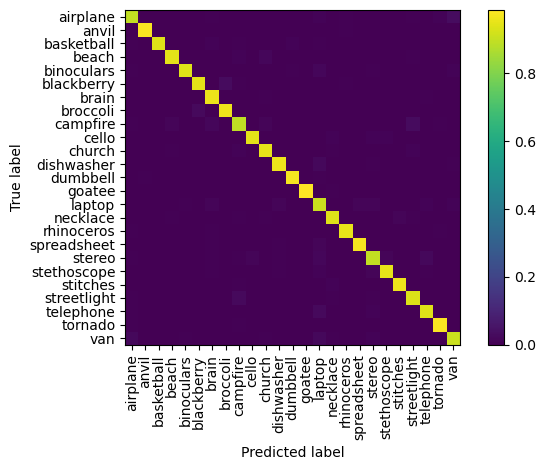
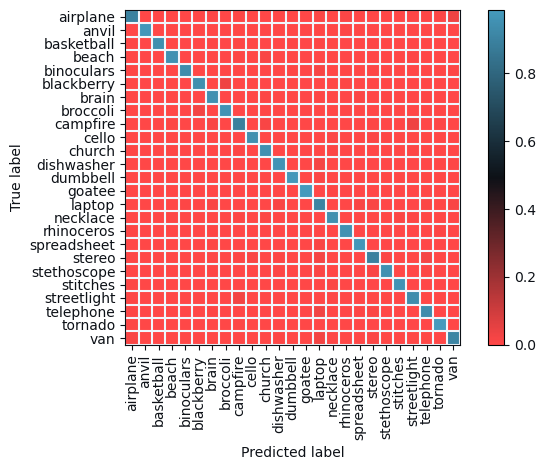
Added hyperparameter tuning result links to the README table

diff --git a/main.py b/main.py
@@ -47,7 +47,9 @@ def main():
         model = kNN(dataset, best_params)
         model.fit(use_val=True)
         model.evaluate(verbose=True)
-        model.plot_confusion_matrix(show=True)
+        # model.plot_confusion_matrix(show=True)
+        model.plot_confusion_matrix(show=True, save_filepath="./data/resources/knn_confusion_matrix_dark.png", dark_mode=True)
+        model.plot_confusion_matrix(show=True, save_filepath="./results/knn/knn_confusion_matrix.png", dark_mode=False)
     elif model_type == "svm":
         with open("./results/svm/svm_results.json") as file:
             svm_results = json.load(file)

diff --git a/models/kNN.py b/models/kNN.py
@@ -111,7 +111,7 @@ class kNN(Model):
         plt.subplots_adjust(bottom=0.17)
         plt.tight_layout()
         if save_filepath is not None:
-            plt.savefig(save_filepath, bbox_inches="tight")
+            plt.savefig(save_filepath, bbox_inches="tight", transparent=True)
         if show:
             plt.show()
 

diff --git a/README.md b/README.md
@@ -83,11 +83,13 @@ The [train-test-validation](./data/splits) split is 55%-30%-15%. It is a random 
 
 
 ### Model Development
-We experiment with three different models: a kNN, SVM and LSTM.
+We experiment with three different models: a [kNN](./models/kNN.py), [SVM](./models/SVM.py) and [LSTM](./models/LSTM.py).
 
 #### Hyperparameter Tuning
 
-We use Grid Search (kNN, SVM) and Bayesian Optimization (LSTM) to perform hyperparameter tuning.
+Due to the size of the hyperparameter space of the LSTM and to enable fair comparison between models, 
+we restrict the tuning process to a single train-validation split (as defined [here](#data-preparation)). 
+We use Grid Search (kNN, SVM) and Bayesian Optimization (LSTM).
 The method used is determined by the number of hyperparameters, where Grid Search
 is used for smaller search spaces and Bayesian Optimization is used for larger ones.
 
@@ -101,12 +103,12 @@ is used for smaller search spaces and Bayesian Optimization is used for larger o
             <th><span>Tuning</span>
 Method<span></span></th>
             <th>Range</th>
-            <th>Selected <v></v>alue</th>
+            <th>Selected Value</th>
         </tr>
     </thead>
     <tbody>
         <tr>
-            <td rowspan=2>kNN</td>
+            <td rowspan=2><a href="./results/knn/knn_results.json">kNN</a></td>
             <td colspan="2"># neighbours</td>
             <td rowspan="2">Grid Search</td>
             <td>{1, 2, ..., 50}</td>
@@ -118,7 +120,7 @@ Method<span></span></th>
             <td>distance</td>
         </tr>
         <tr>
-            <td rowspan=2>SVM</td>
+            <td rowspan=2><a href="./results/svm/svm_results.json">SVM</a></td>
             <td colspan="2">C</td>
             <td rowspan="2">Grid Search</td>
             <td>{0.1, 1, ..., 1000}</td>
@@ -130,21 +132,30 @@ Method<span></span></th>
             <td>1</td>
         </tr>
         <tr>
-            <td rowspan=9>LSTM</td>
-            <td rowspan=3>Architecture</td>
+            <td rowspan=10><a href="./results/lstm">LSTM</a></td>
+            <td rowspan=4><a href="./results/lstm/lstm_results_arch_1.json">Architecture</a></td>
             <td># LSTM units</td>
-            <td rowspan="9">Bayesian Optimization</td>
+            <td rowspan="10">Bayesian Optimization</td>
+            <td>{64, 128, ..., 512}</td>
+            <td>-</td>
         </tr>
         <tr>
             <td># FC layers</td>
+            <td>{1, 2}</td>
             <td>-</td>
         </tr>
         <tr>
             <td># units per FC layer</td>
+            <td>{128, 256, ..., 1024}</td>
             <td>-</td>
         </tr>
         <tr>
-            <td rowspan=3>LR Schedule</td>
+            <td>Dropout per layer</td>
+            <td>{0.1, 0.3, ..., 0.7}</td>
+            <td>-</td>
+        </tr>
+        <tr>
+            <td rowspan=3><a href="./results/lstm/lstm_results_adam_1.json">LR Schedule</a></td>
             <td>Scheduler</td>
             <td>-</td>
         </tr>
@@ -157,7 +168,7 @@ Method<span></span></th>
             <td>-</td>
         </tr>
         <tr>
-            <td rowspan=3>Optimizer</td>
+            <td rowspan=3><a href="./results/lstm/lstm_results_adam_1.json">Optimizer</a></td>
             <td>Optimizer</td>
             <td>-</td>
         </tr>
